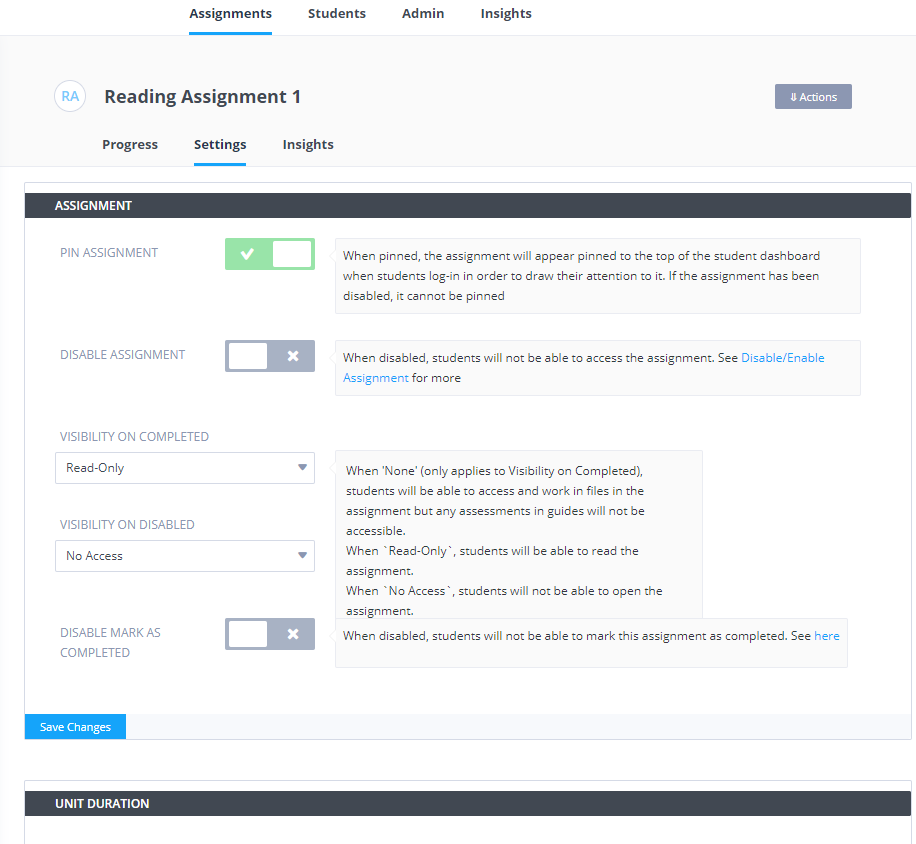
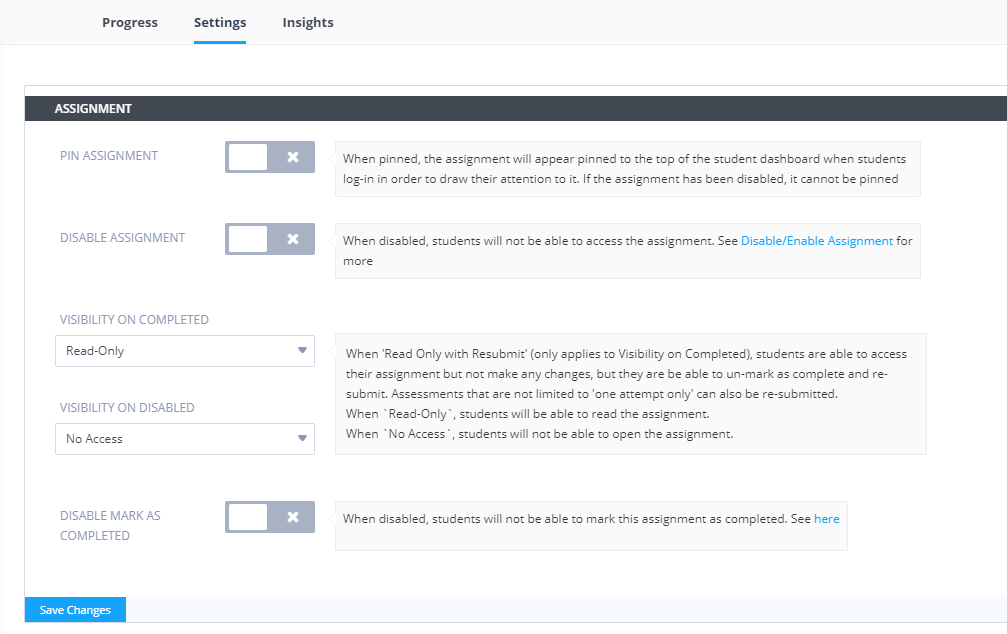
18sepupdate (#50)
* changelog #11620

* changlog #11875 #11887

diff --git a/docs/courses/classes.md b/docs/courses/classes.md
@@ -606,7 +606,7 @@ For book based assignments, you should be aware that if another assignment gives
 #### Visibility on completed
 You can specify the students ability to access the assignment when completed. **Not available for book based assignments**
 
-- 'None' will allow students to continue to access and work in code files, any assessments in the assignment can be seen but not changed. When set to 'None', students will be able to change the status of their assignment from completed to not completed.
+- 'Read Only with Resubmit' will allow students access the assignment in read only mode, but also to change the status of their assignment from completed to not completed regain full access and re-submit their work again. Any assessments that are not limited to 'one attempt only' can also be submitted again.
 - 'Read-Only' will allow students to access their assignment but not make any changes.
 - 'No Access' will not allow the students to access their assignment.
 
@@ -615,6 +615,8 @@ You can specify the students ability to access the assignment when disabled.  **
 
 - 'Read-Only' will allow students to access their assignment but not make any changes.
 - 'No Access' will not allow the students to access their assignment.
+
+
 
 #### Disable Mark as Completed
 Disabling will not allow students to mark the assignment as completed. If assignments in your course are of a ‘playground’ type where you allow students to experiment with their code, this can be useful to disable to avoid them completing the assignment in error and then having to ask the teacher/instructor to change the status back so they can continue working.

diff --git a/docs/resources/changelog.md b/docs/resources/changelog.md
@@ -13,6 +13,8 @@ We do not report small bug fixes or issues that affect individual users, who we 
 
 **September 2020**
 
+- `[I] [23rd]`: Update handling of visibility on completed to require students to change status of assignment from completed to be able to continue working
+- `[I] [18th]`: Update handling of visibility on disabled for assignments not started before end date of course
 - `[F] [16th]`: Add ability to more easily [generate items](/courses/assessments/#generate-items) for Standard Code test
 - `[I] [16th]`: Fix problem with Code Commenting where guides layout protected
 - `[I] [15th]`: Improvements for Code Commenting to remember toggled state and to show new comments in real time
